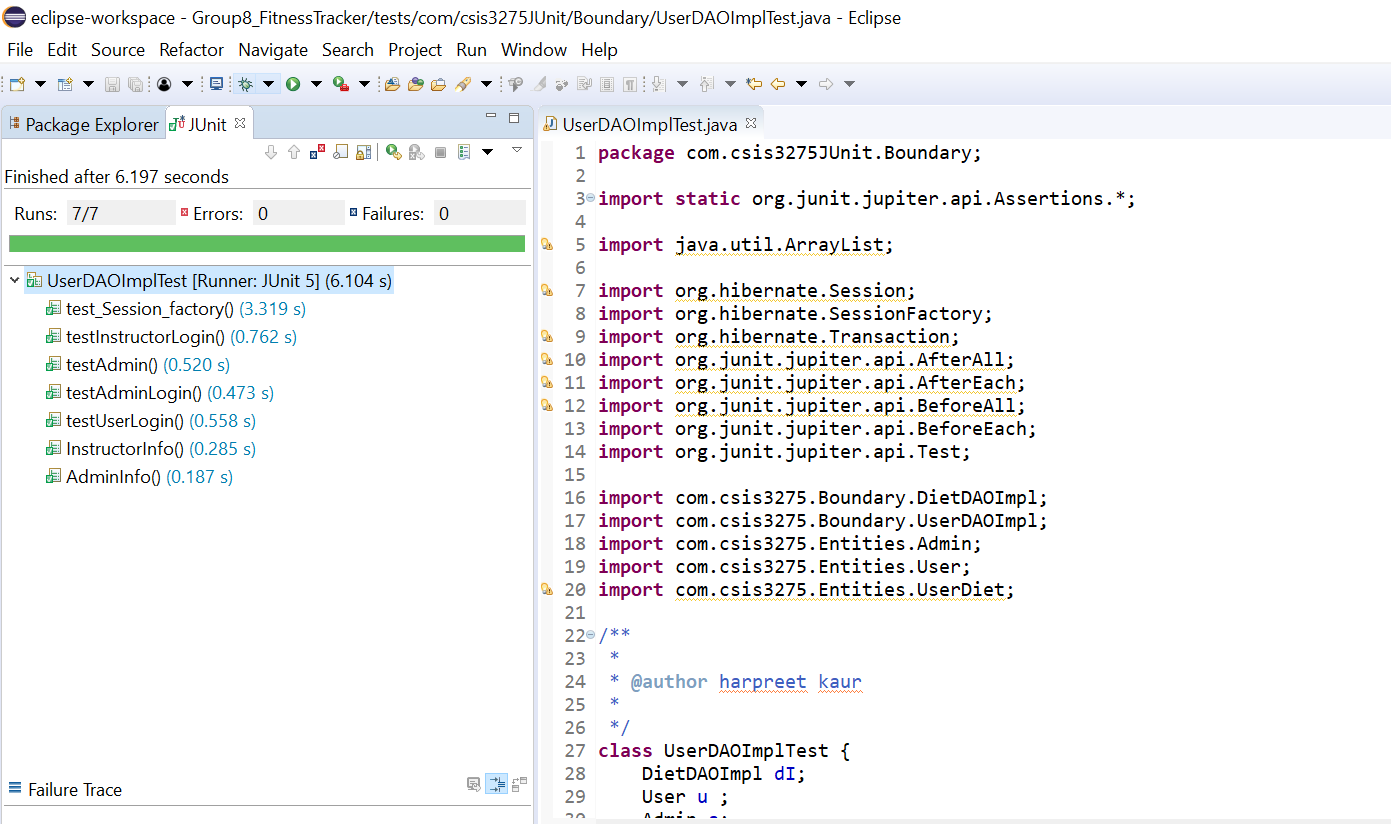
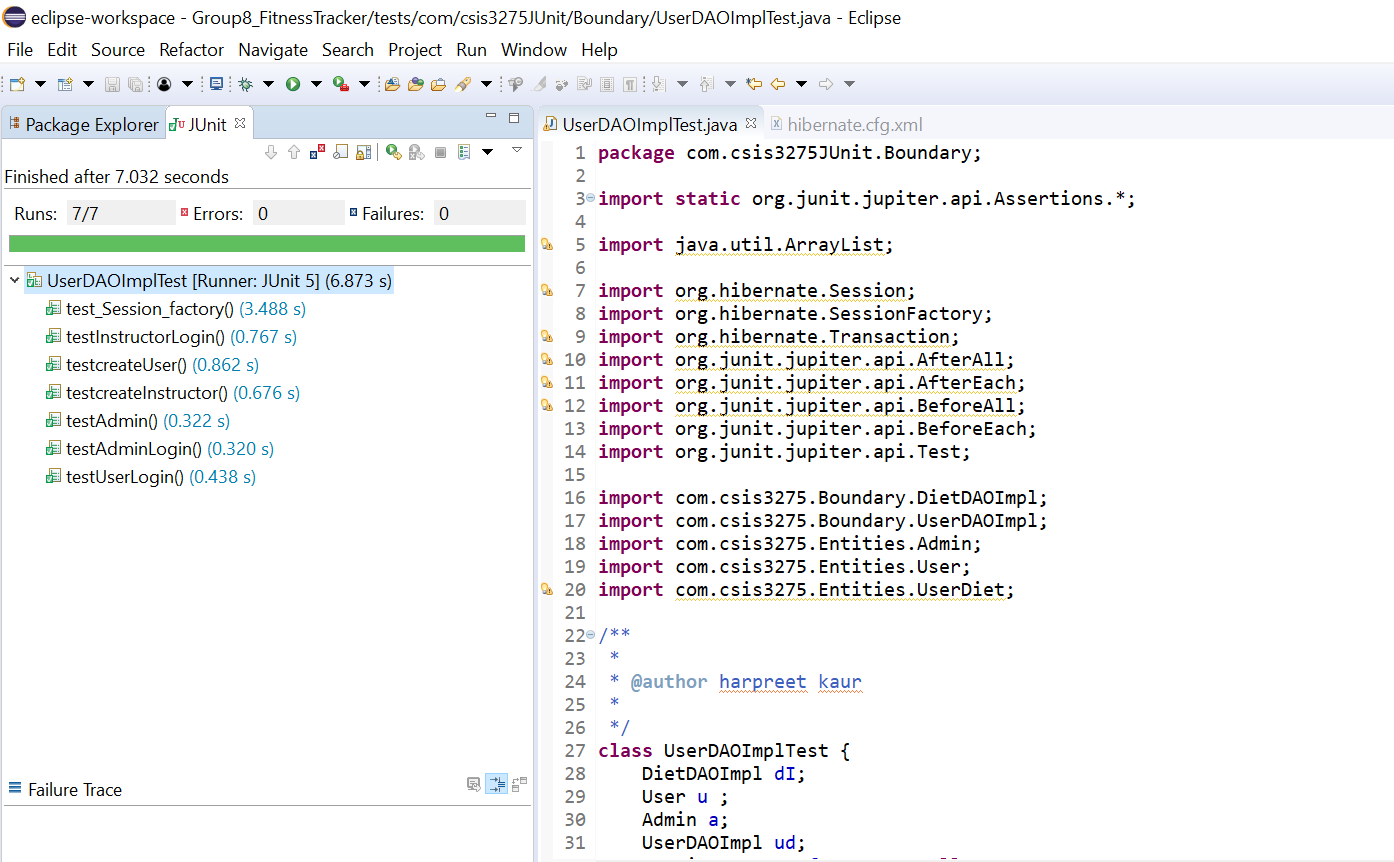
test is modified in UserDAOImplTest.java and modified image is added

Changed region(s): [[0.0, 0.0, 0.8347, 1.0], [0.0, 0.9102, 0.0927, 0.9709]]

diff --git a/tests/com/csis3275JUnit/Boundary/UserDAOImplTest.java b/tests/com/csis3275JUnit/Boundary/UserDAOImplTest.java
@@ -51,9 +51,9 @@ class UserDAOImplTest {
 	}
 	
 	public void userInfo() {
-		u.setUserFirstName("harprit");
+		u.setUserFirstName("harpriit");
 		u.setUserLastName("Kaur");
-		u.setUserEmail("hkkkk@gmail.com");
+		u.setUserEmail("hkp@gmail.com");
 		u.setUserGender("Female");
 		u.setUserPassword("happy");
 		u.setInstructor("User");
@@ -61,19 +61,19 @@ class UserDAOImplTest {
 	}
 	
 	@Test
-/*	void testcreateUser() {
+	void testcreateUser() {
 		userInfo();
 		String createuser=ud.createUserAccount(u);
 		assertNotNull(ud);
 		assertNotNull(u);
 		assertNotNull(createuser);
 		assertNotEquals("", createuser);
-	}*/
+	}
 	
 	public void InstructorInfo() {
-		u.setUserFirstName("happyInstruct");
+		u.setUserFirstName("pawanInstruct");
 		u.setUserLastName("Kharoud");
-		u.setUserEmail("Kaur@gmail.com");
+		u.setUserEmail("pawan@gmail.com");
 		u.setUserGender("Female");
 		u.setUserPassword("instructor");
 		u.setInstructor("Instructor");
@@ -81,14 +81,14 @@ class UserDAOImplTest {
 	}
 	
 	@Test
-/*	void testcreateInstructor() {
+	void testcreateInstructor() {
 		InstructorInfo();
 		String createInstructor=ud.createInstructorAccount(u);
 		assertNotNull(ud);
 		assertNotNull(u);
 		assertNotNull(createInstructor);
 		assertNotEquals("", createInstructor);
-	}*/
+	}
 	
 	public void AdminInfo() {
 		
